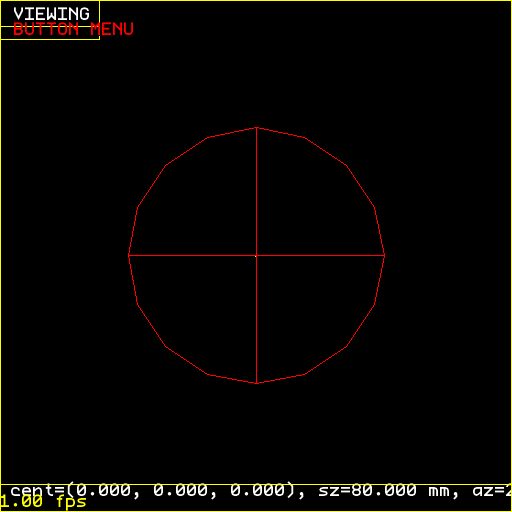
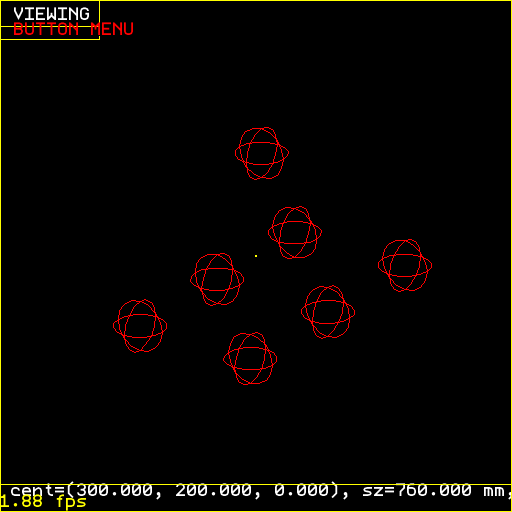
pattern_gui.tcl: add autoview after draw in all three pattern functions; regenerate screenshots 19-27

diff --git a/pattern_screenshots/gallery.html b/pattern_screenshots/gallery.html
@@ -1,0 +1,34 @@
+<!DOCTYPE html>
+<html>
+<head><title>Pattern Screenshots Gallery</title>
+<style>
+body{font-family:sans-serif;background:#222;color:#eee;padding:10px}
+.row{display:flex;gap:10px;margin-bottom:10px;flex-wrap:wrap}
+.cell{text-align:center}
+.cell img{border:1px solid #444}
+.cell p{font-size:11px;margin:2px}
+</style>
+</head><body>
+<h2>Pattern Screenshots 19–27 (with autoview fix)</h2>
+<div class="row">
+<div class="cell"><img src="19_sph_8ring.png" width="256"><p>19_sph_8ring</p></div>
+<div class="cell"><img src="20_sph_latlon.png" width="256"><p>20_sph_latlon</p></div>
+<div class="cell"><img src="21_sph_rotaz.png" width="256"><p>21_sph_rotaz</p></div>
+</div>
+<div class="row">
+<div class="cell"><img src="22_cyl_4x2.png" width="256"><p>22_cyl_4x2</p></div>
+<div class="cell"><img src="23_cyl_rot.png" width="256"><p>23_cyl_rot</p></div>
+<div class="cell"><img src="24_cyl_laz.png" width="256"><p>24_cyl_laz</p></div>
+</div>
+<div class="row">
+<div class="cell"><img src="25_rect_depth_regions.png" width="256"><p>25_rect_depth_regions</p></div>
+<div class="cell"><img src="26_rect_depth_primitives.png" width="256"><p>26_rect_depth_primitives</p></div>
+<div class="cell"><img src="27_sph_depth_primitives.png" width="256"><p>27_sph_depth_primitives</p></div>
+</div>
+<h2>Reference (working rect patterns 16–18)</h2>
+<div class="row">
+<div class="cell"><img src="16_rect_4x3.png" width="256"><p>16_rect_4x3</p></div>
+<div class="cell"><img src="17_rect_subst.png" width="256"><p>17_rect_subst</p></div>
+<div class="cell"><img src="18_rect_3d_group.png" width="256"><p>18_rect_3d_group</p></div>
+</div>
+</body></html>
